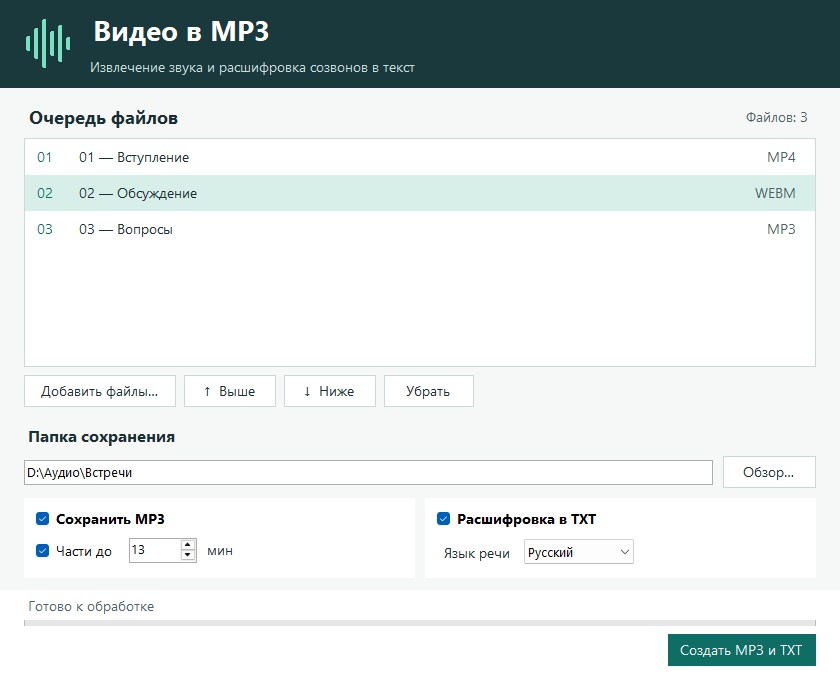
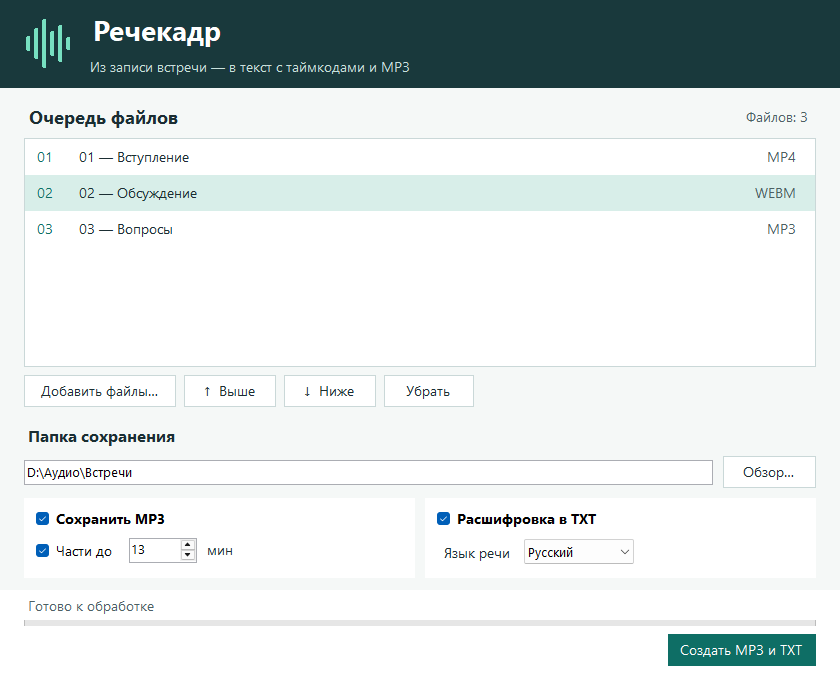
Rename the app to Речекадр and clarify its purpose

Changed region(s): [[0.0929, 0.0308, 0.4952, 0.1232]]

diff --git a/src/MainWindow.cs b/src/MainWindow.cs
@@ -67,7 +67,7 @@ namespace VideoToMp3
 
         public MainWindow()
         {
-            Text = "Видео в MP3";
+            Text = "Речекадр";
             Font = new Font("Segoe UI", 10);
             BackColor = Paper;
             AutoScaleDimensions = new SizeF(96, 96);
@@ -93,9 +93,9 @@ namespace VideoToMp3
                         e.Graphics.DrawLine(pen, 28 + i * 8, 43 - heights[i], 28 + i * 8, 43 + heights[i]);
                 }
             };
-            var title = Caption("Видео в MP3", 21, true);
+            var title = Caption("Речекадр", 21, true);
             title.ForeColor = Color.White;
-            var description = Caption("Извлечение звука и расшифровка созвонов в текст", 10);
+            var description = Caption("Из записи встречи — в текст с таймкодами и MP3", 10);
             description.ForeColor = Color.FromArgb(201, 224, 220);
             header.Controls.Add(title, 0, 0);
             header.Controls.Add(description, 0, 1);

diff --git a/README.md b/README.md
@@ -1,6 +1,6 @@
-# Видео в MP3
+# Речекадр
 
-Приложение для Windows, которое собирает звук из нескольких записей в один MP3 и расшифровывает речь в текст с таймкодами. Порядок файлов задаётся в окне программы. После установки FFmpeg и моделей обработка работает локально.
+**Из записи встречи — в текст с таймкодами и MP3.** Перетащите видео в Речекадр, чтобы найти нужную фразу в тексте или послушать разговор по дороге. Несколько записей можно объединить, а длинный разговор — разделить на короткие аудиофайлы. Речекадр работает на Windows и после установки распознаёт речь прямо на компьютере.
 
 [**Скачать для Windows x64**](https://github.com/akiooooo/video-to-mp3/releases/latest/download/VideoToMP3-Windows.zip) · [Все версии](https://github.com/akiooooo/video-to-mp3/releases)
 
